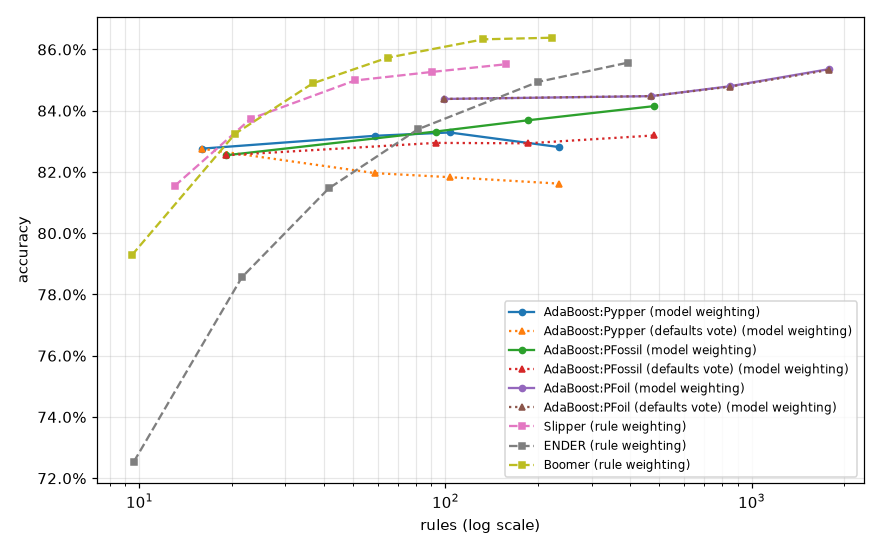
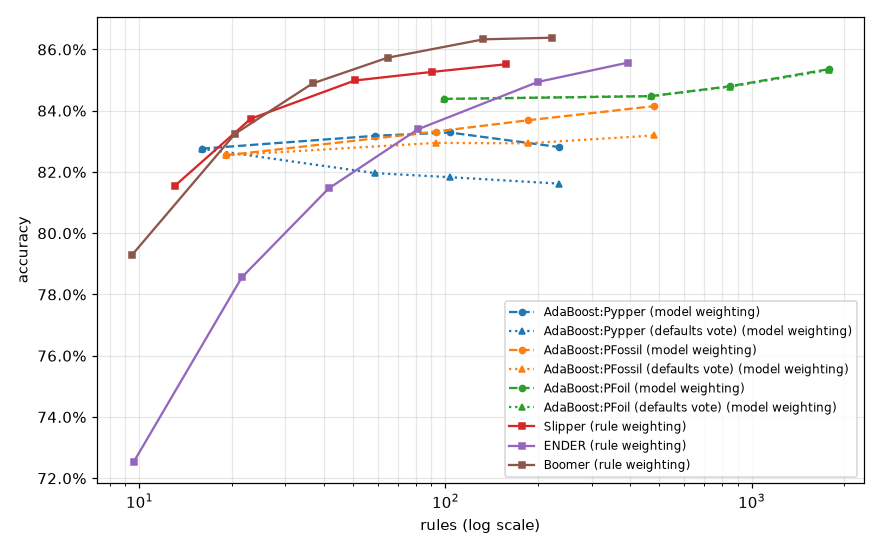
Model vs. rule weighting demo: line styles by vote, a colour per AdaBoost fit

diff --git a/demos/model_vs_rule_weighting.py b/demos/model_vs_rule_weighting.py
@@ -283,13 +283,15 @@ def _plot(var: pd.DataFrame, quick: bool) -> list:
         means = var.groupby(["name", "rounds"])[["n_rules", "accuracy"]].mean()
         os.makedirs(PLOTS_DIR, exist_ok=True)
         fig, ax = plt.subplots(figsize=(8, 5))
-        for name, (_, strategy) in CURVES.items():
+        # the two curves of an AdaBoost fit share its colour
+        colors = dict(zip(LEARNERS, plt.rcParams["axes.prop_cycle"].by_key()["color"]))
+        for name, (fitted, strategy) in CURVES.items():
             m = means.loc[name] if name in means.index.get_level_values(0) else None
             if m is None:
                 continue
             ax.plot(m["n_rules"], m["accuracy"], ":^" if name.endswith(DEFAULTS) else
-                    "-o" if strategy == "model weighting" else "--s",
-                    markersize=4, label=f"{name} ({strategy})")
+                    "--o" if strategy == "model weighting" else "-s",
+                    color=colors[fitted], markersize=4, label=f"{name} ({strategy})")
         ax.set_xscale("log")
         ax.set_xlabel("rules (log scale)")
         ax.set_ylabel("accuracy")
